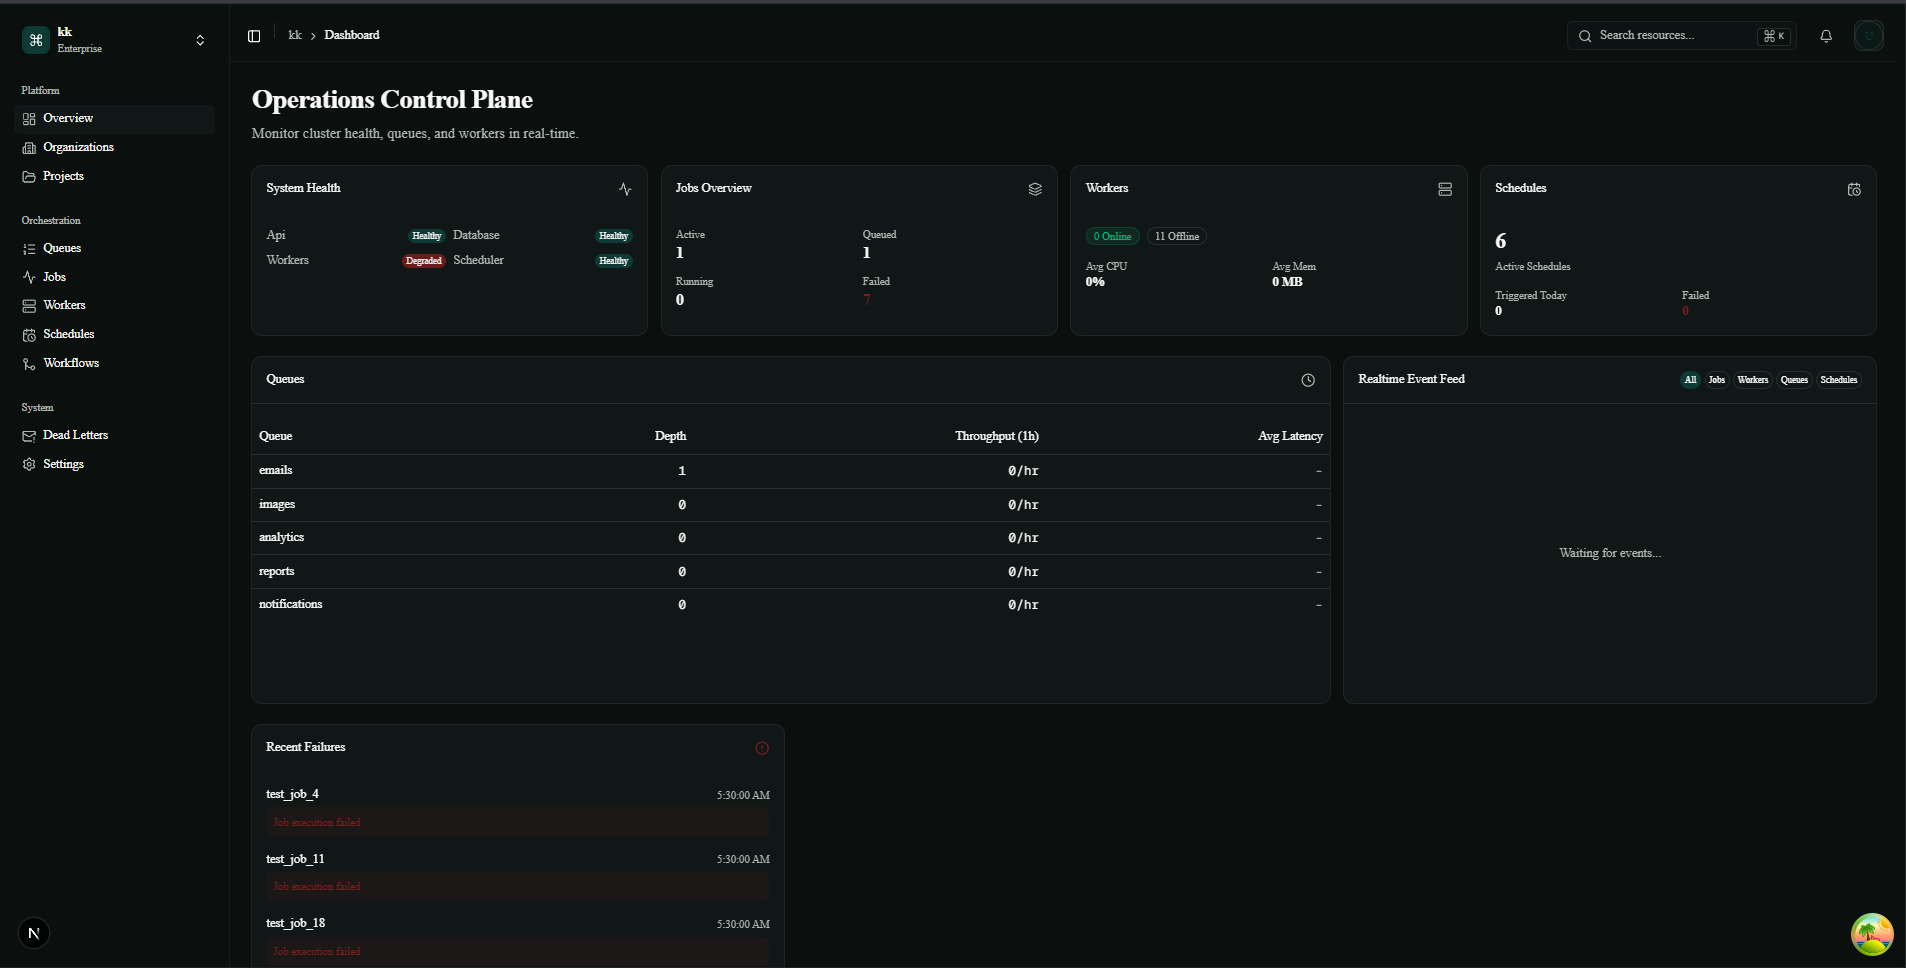
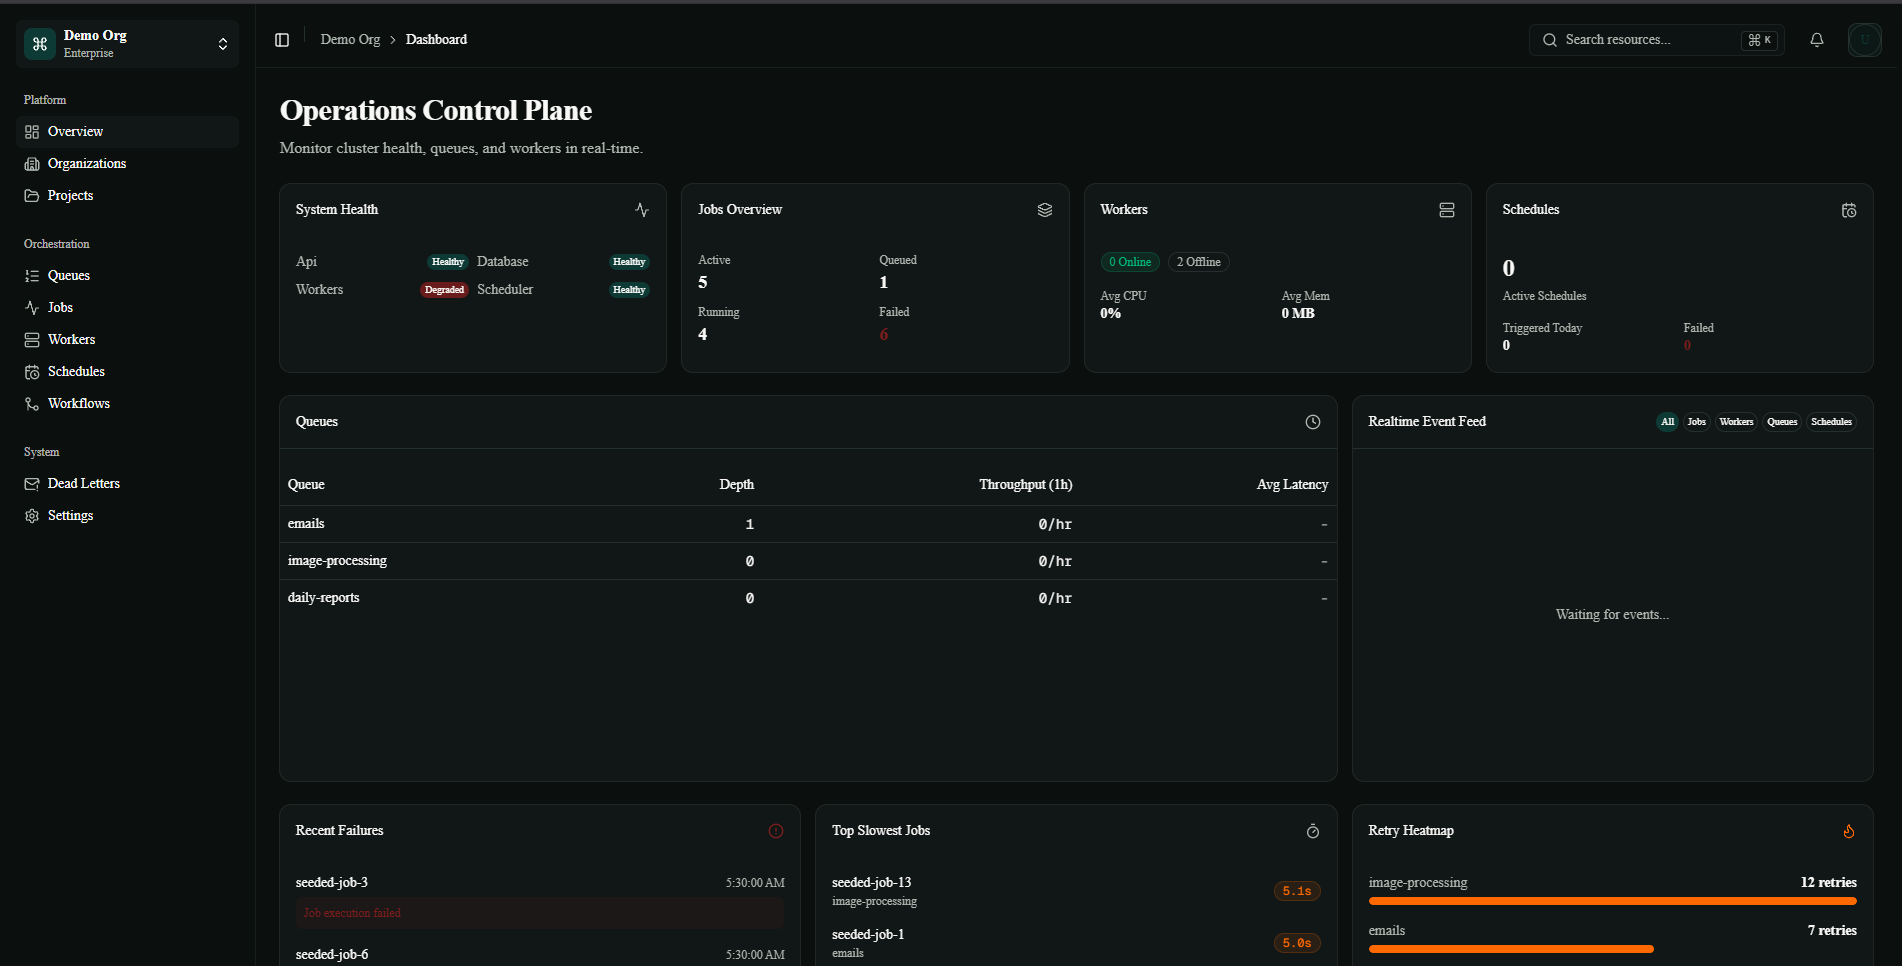
Fix React Flow node styling in dark mode

diff --git a/apps/web/src/app/globals.css b/apps/web/src/app/globals.css
@@ -140,3 +140,13 @@
     @apply font-sans;
   }
 }
+
+/* Fix React Flow Default Nodes for Dark Theme */
+.dark .react-flow__node-default, .dark .react-flow__node-input, .dark .react-flow__node-output {
+  background-color: var(--card);
+  color: var(--foreground);
+  border-color: var(--border);
+  box-shadow: 0 4px 6px -1px rgb(0 0 0 / 0.1), 0 2px 4px -2px rgb(0 0 0 / 0.1);
+  border-radius: var(--radius-md);
+  font-family: var(--font-sans);
+}

diff --git a/PROJECT_REPORT.md b/PROJECT_REPORT.md
@@ -88,8 +88,8 @@ The dashboard provides a real-time, bird's-eye view of the system's health:
    docker-compose exec api python scripts/seed_user_data.py <YOUR_ORG_ID>
    ```
 3. **Access the application**:
-   - Web UI: `http://localhost:3000`
-   - API Docs: `http://localhost:8000/docs`
+   - Web UI: `https://async-hub.vercel.app/`
+   - Backend: `https://asynchub.onrender.com/`
 
 ---
 *Developed as a comprehensive showcase of modern full-stack engineering, asynchronous Python architecture, and polished React UI/UX.*